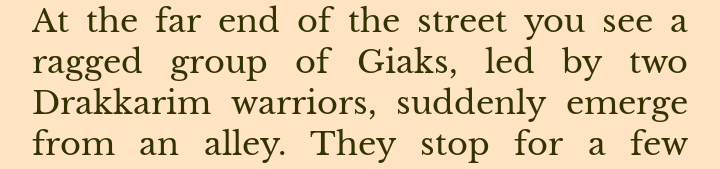
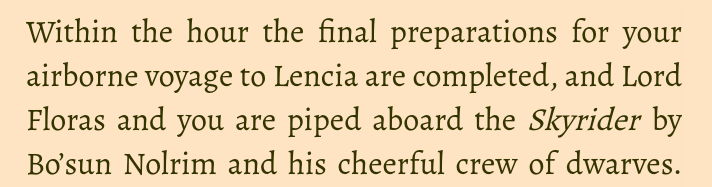
SFOS: Update font examples

Changed region(s): [[0.0309, 0.0296, 0.9579, 0.7396], [0.0309, 0.7396, 0.9579, 0.9763]]

diff --git a/app/AboutPage.qml b/app/AboutPage.qml
@@ -84,7 +84,13 @@ Page { id: about
                 + "<p>Instead, we ship the free fonts “Fraunces”, and “Alegreya” which look somewhat similar.</p>"
                 + "<p>If you happen to have the original (non-free) “Souvenir”, “ITC Souvenir”, or “AG Souvenir” fonts available, they can be used as well.</p>"
                 + "<p>In order to use them, you have to copy them to <tt>~/.local/share/fonts</tt> and select the preferred font on the Menu Page.</p>"
-                + "<p>Below you can see a comparison of Alegreya (top), Fraunces, AG Souvenir, and Souvenir (bottom)</p>"
+                + "<p>Below you can see a comparison of Default (top), Alegreya, Fraunces, and Souvenir (bottom)</p>"
+        }
+        Image {
+            width: parent.width*8/10
+            anchors.horizontalCenter: parent.horizontalCenter
+            source: "demo_default.png"
+            fillMode: Image.PreserveAspectFit
         }
         Image {
             width: parent.width*8/10
@@ -96,12 +102,6 @@ Page { id: about
             width: parent.width*8/10
             anchors.horizontalCenter: parent.horizontalCenter
             source: "demo_fraunces.png"
-            fillMode: Image.PreserveAspectFit
-        }
-        Image {
-            width: parent.width*8/10
-            anchors.horizontalCenter: parent.horizontalCenter
-            source: "demo_ag_souvenir.png"
             fillMode: Image.PreserveAspectFit
         }
         Image {
